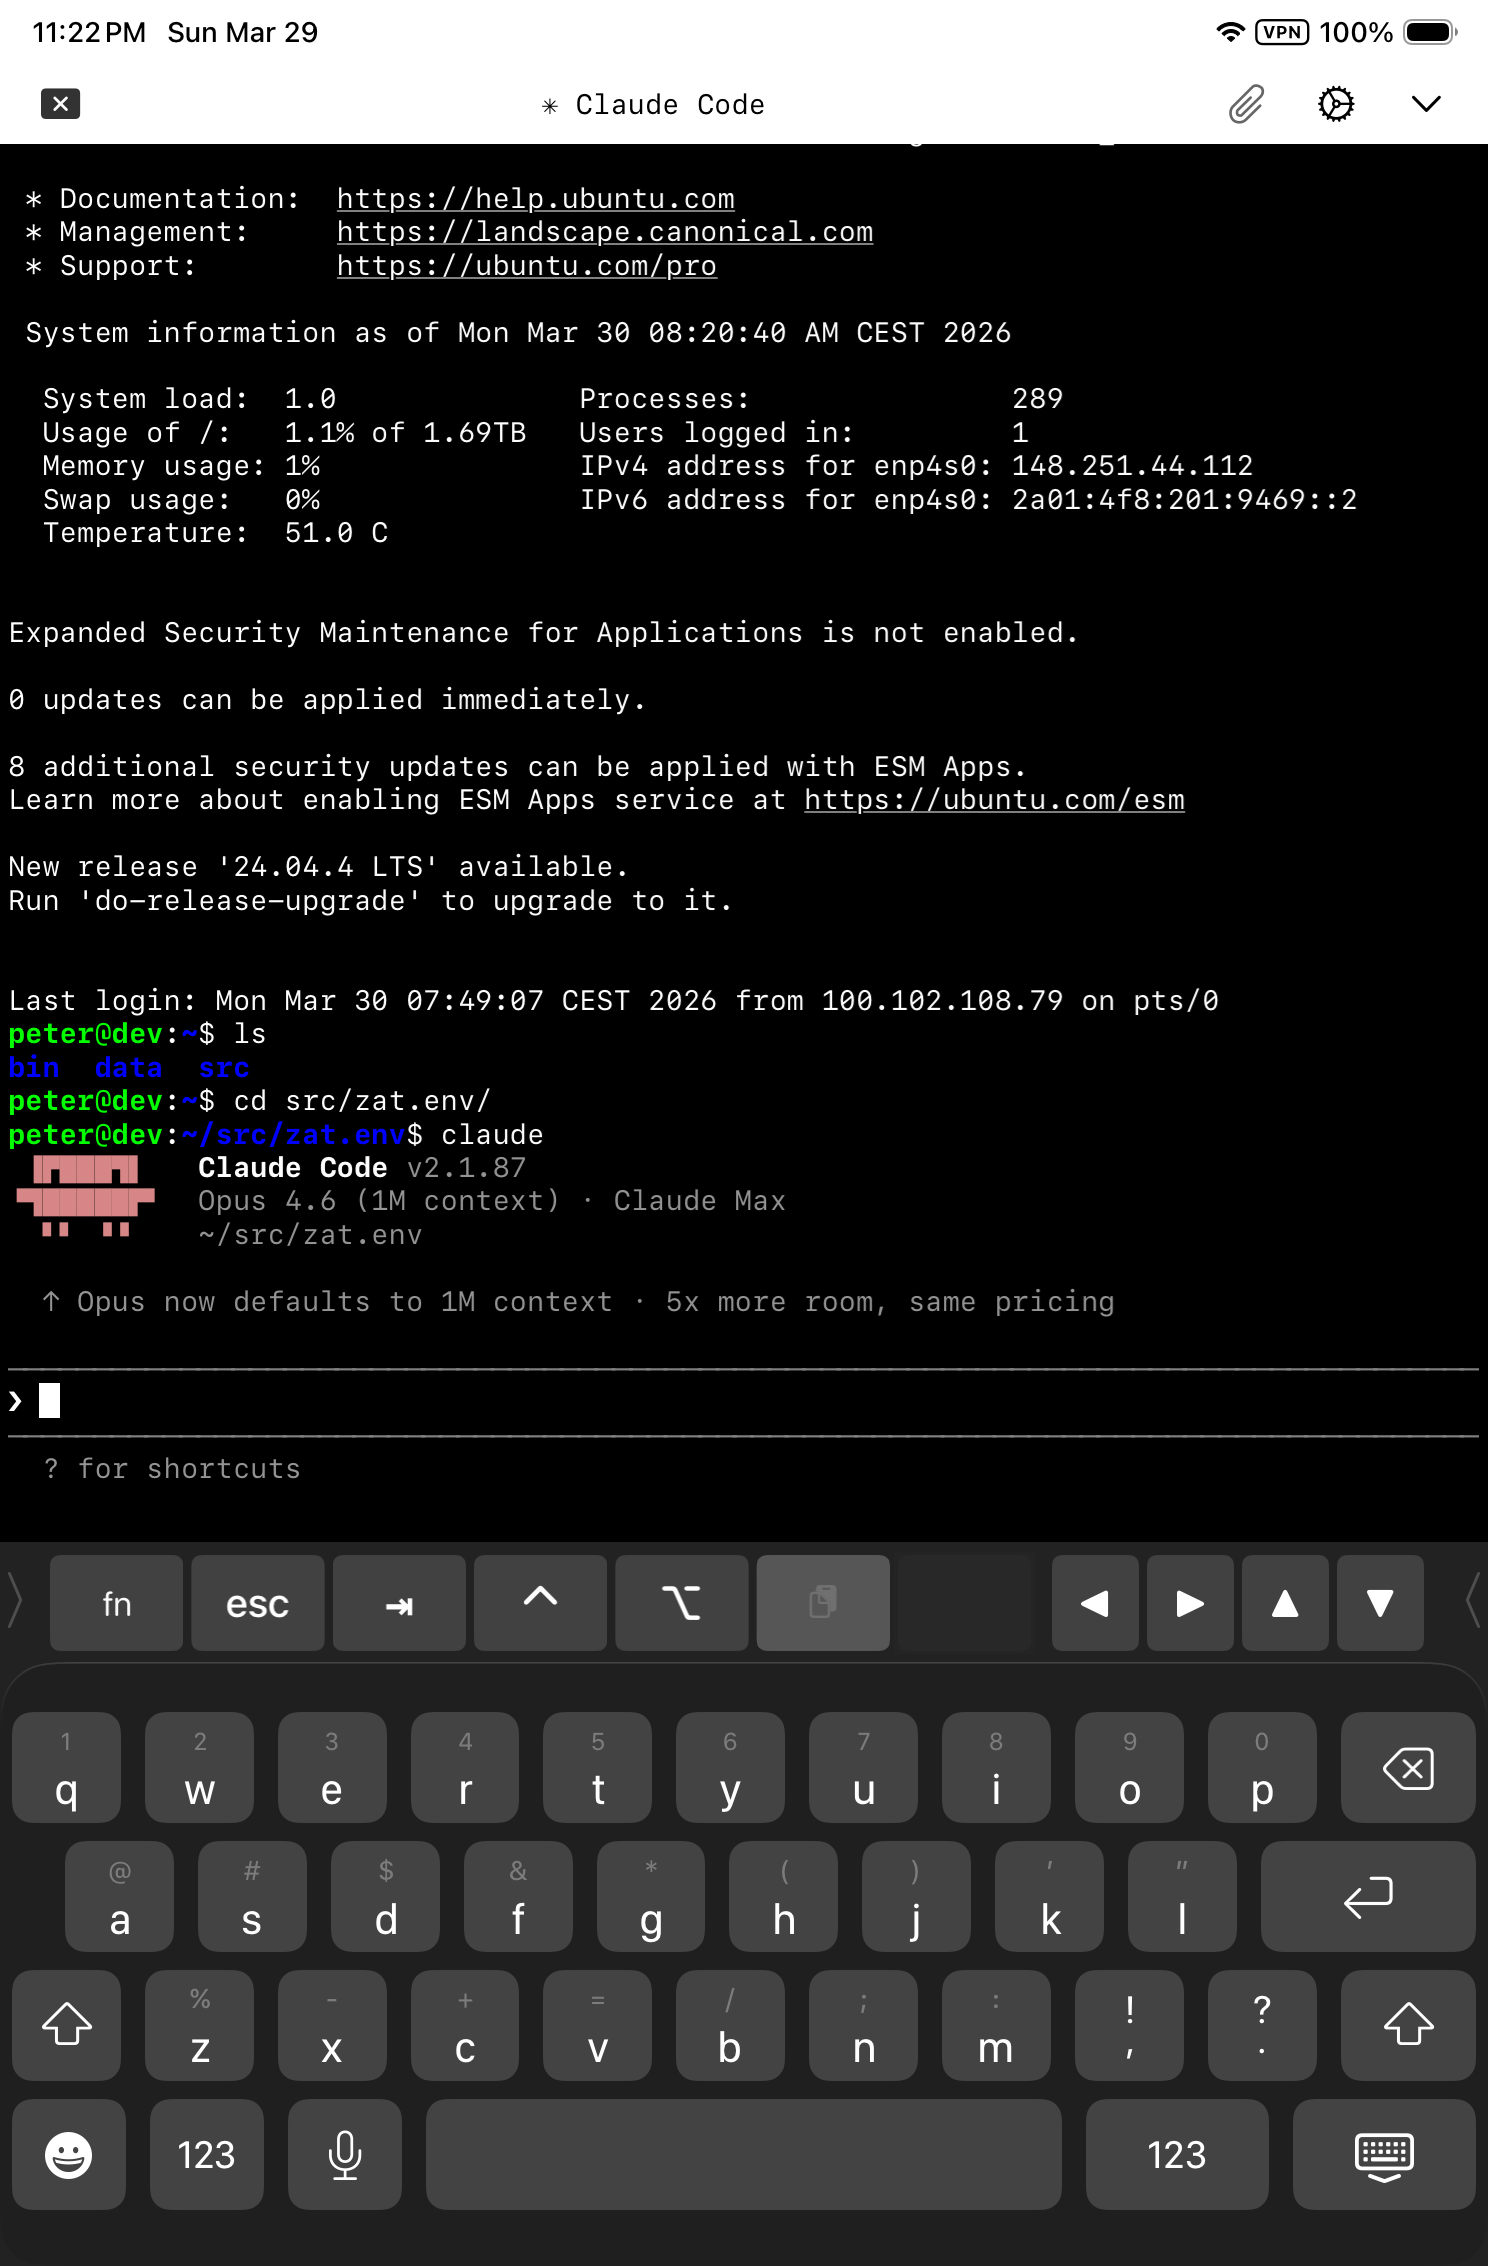
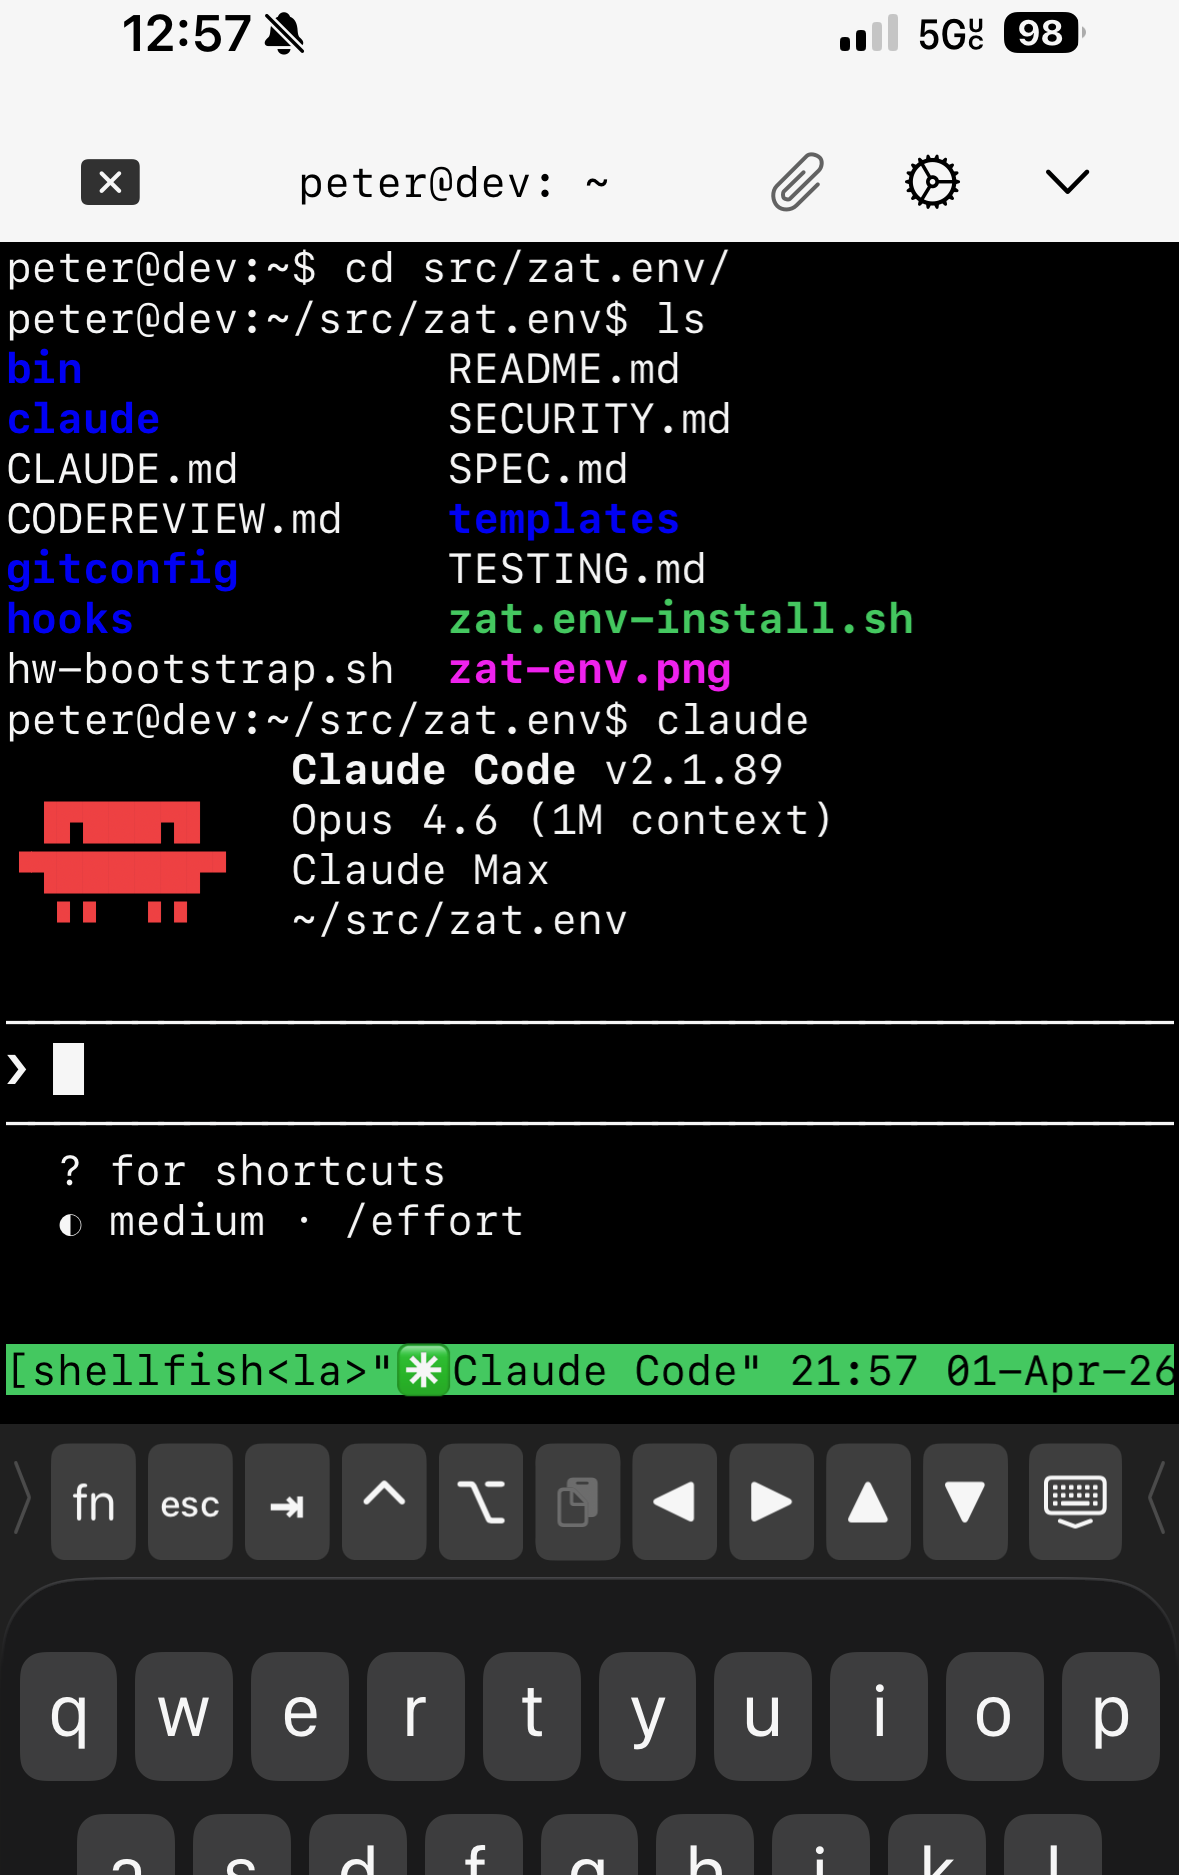
Update hero image and caption to iPhone with tmux
Replace iPad screenshot with iPhone/ShellFish/tmux photo.
Fix alt text to match.

diff --git a/CODEREVIEW.md b/CODEREVIEW.md
@@ -1,18 +1,18 @@
-## Review -- 2026-04-02 (commit: e5dfeee)
+## Review -- 2026-04-02 (commit: 8b52d4a)
 
-**Review scope:** Refresh review. Focus: 1 file changed since prior review (commit 1cd94f2). 0 already-reviewed files checked for interactions only.
-
-**Summary:** Reviewed addition of venv activation pattern (`Bash(. .venv/bin/activate && *)`) to the base allowlist in `zat.env-install.sh`. Single-line addition, correctly placed in the JSON array, consistent with the global Python venv convention. No test infrastructure in this repo (expected for a dotfiles/config repo). Security scan found no issues.
+**Summary:** Light review of updated hero image and caption in README.md. The screenshot was replaced with an iPhone/ShellFish/tmux photo, and the caption was updated to match. The image file (zat-env.png) was also replaced.
 
 ### Findings
 
-No issues found.
+[NOTE] README.md:4 -- The `alt` attribute on the `<img>` tag still says "Claude Code running on an iPad" but the image and caption now show an iPhone.
+  Evidence: `<img src="zat-env.png" alt="Claude Code running on an iPad" width="480">`
+  Suggested fix: Change `alt` to "Claude Code running on an iPhone" or similar.
 
 ### Fixes Applied
 
 None.
 
 ---
-*Prior review (2026-04-02, commit 1cd94f2): Refresh review (light tier) of /spec reply reminder addition. No issues found.*
+*Prior review (2026-04-02, commit e5dfeee): Refresh review of venv activation allowlist addition. No issues found.*
 
-<!-- REVIEW_META: {"date":"2026-04-02","commit":"e5dfeee","reviewed_up_to":"e5dfeee813b9c530368557c285c7045d2ec91af2","base":"origin/main","tier":"refresh","block":0,"warn":0,"note":0} -->
+<!-- REVIEW_META: {"date":"2026-04-02","commit":"8b52d4a","reviewed_up_to":"8b52d4ae6e7099e1d6632c8bc846233347190732","base":"origin/main","tier":"light","block":0,"warn":0,"note":1} -->

diff --git a/README.md b/README.md
@@ -1,9 +1,9 @@
 # zat.env
 
 <div align="center">
-  <img src="zat-env.png" alt="Claude Code running on an iPad" width="480">
+  <img src="zat-env.png" alt="Claude Code running on an iPhone" width="480">
   <br>
-  <sub>Claude Code on an iPad (ShellFish), connected via Tailscale SSH to a Linux server in Germany</sub>
+  <sub>Claude Code on an iPhone (ShellFish) with tmux, connected via Tailscale SSH to a Linux server in Germany</sub>
 </div>
 
 <br>
